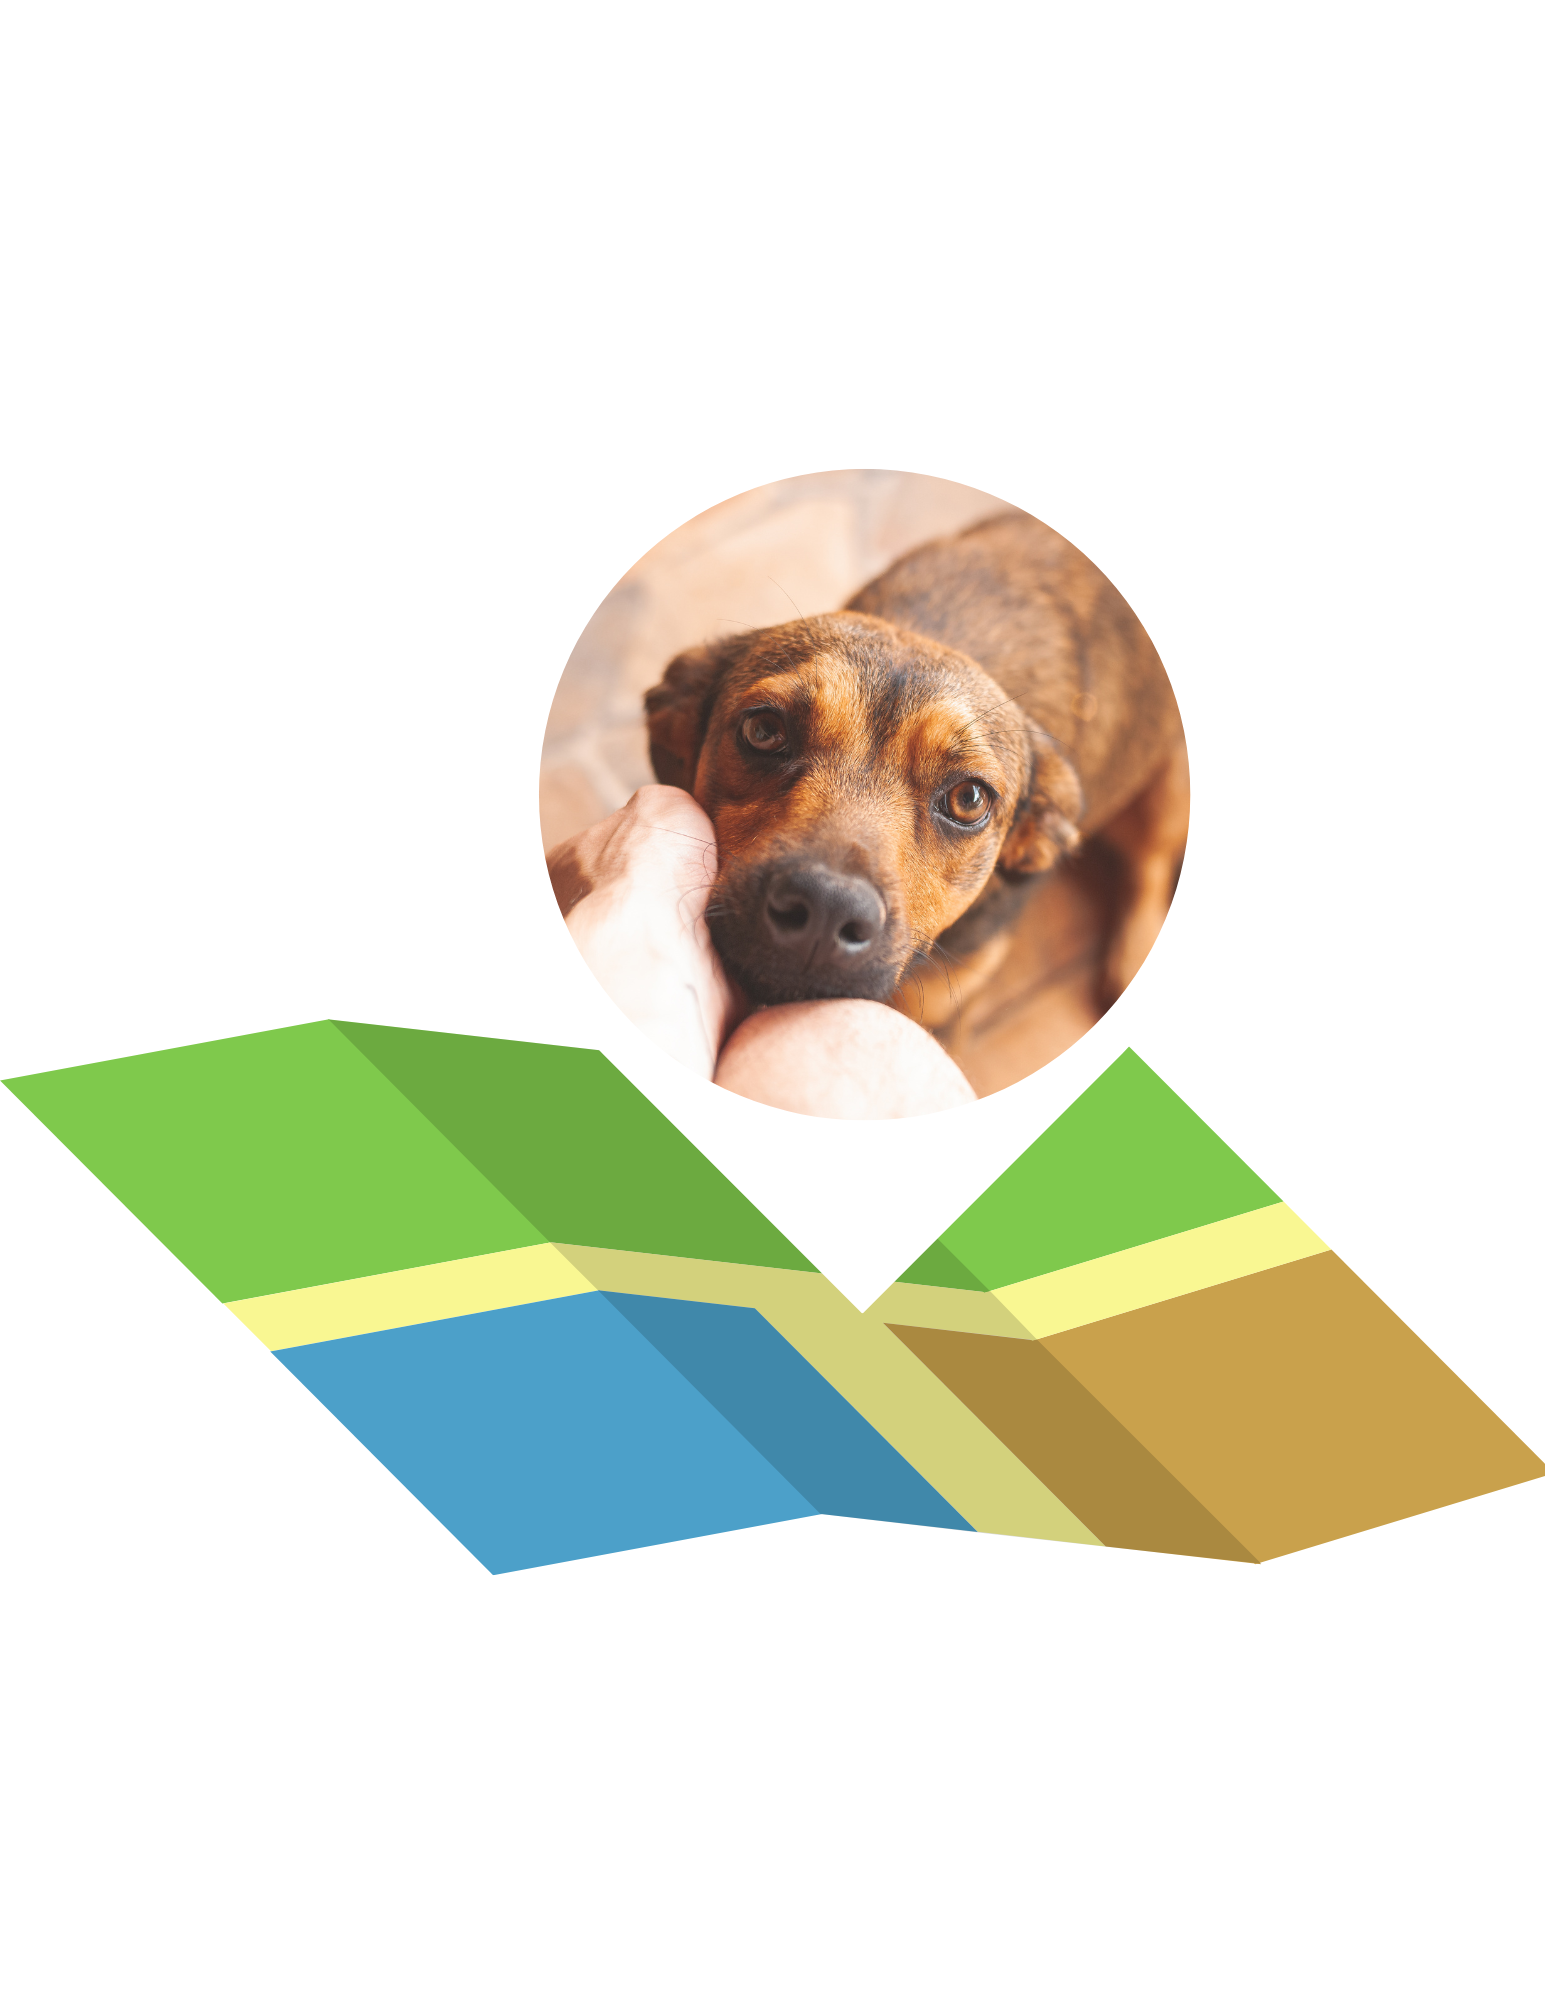
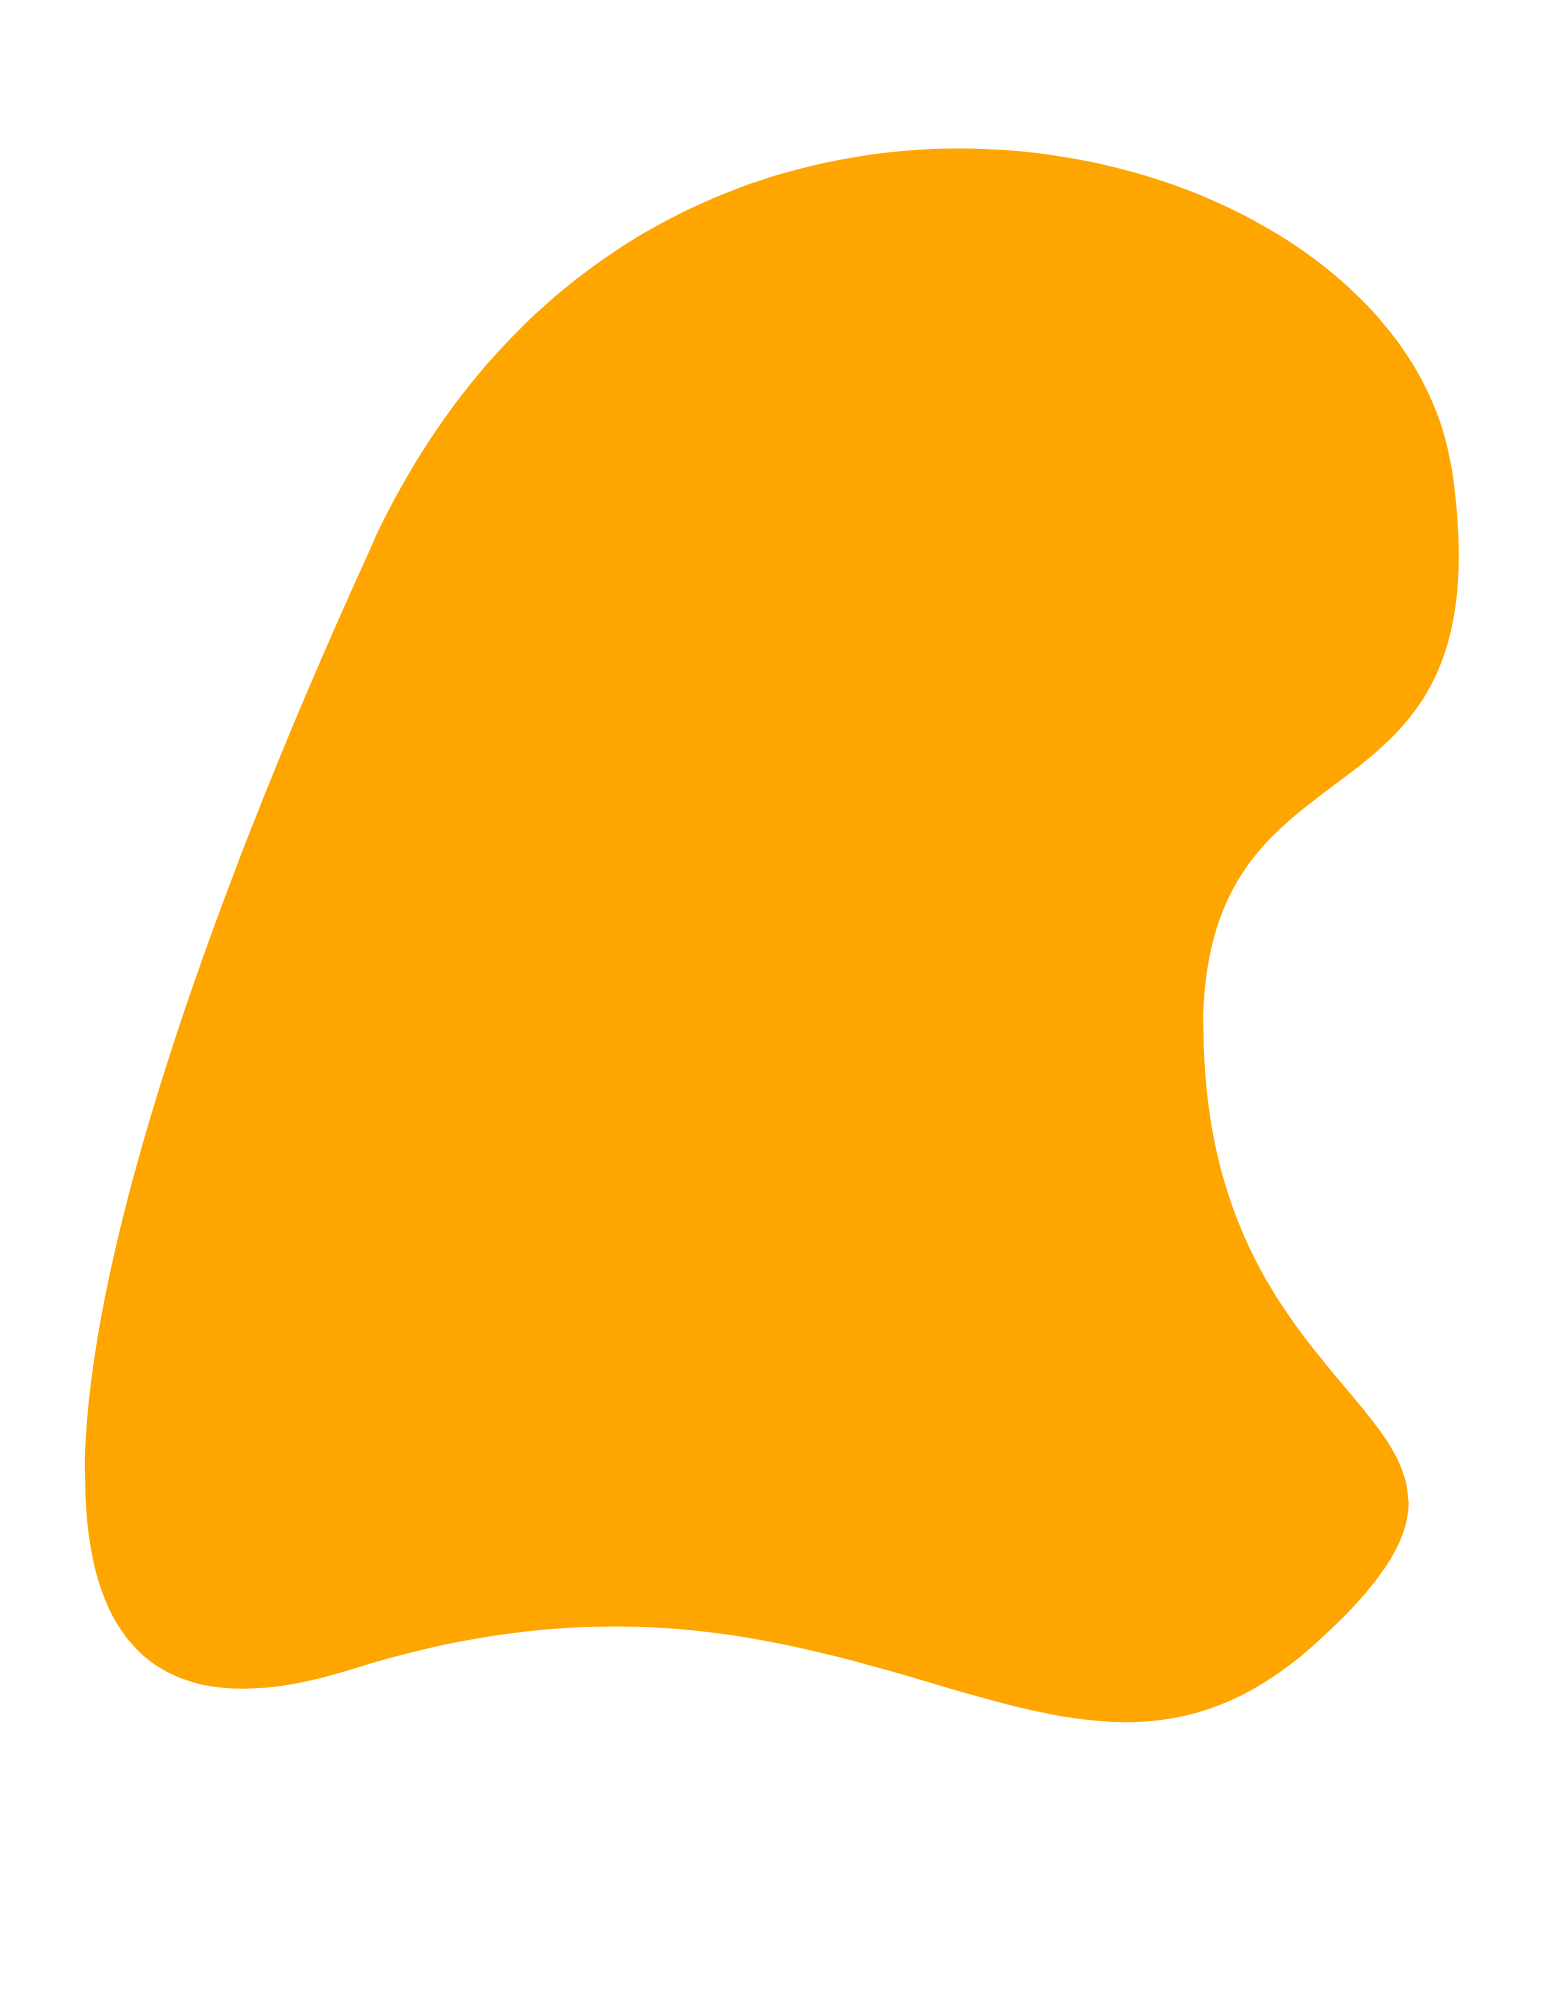
seccion adopcion y seccon donacion,paseo,etc
me falta por hacer la seccion de adopcion y la seccion de eleccion de cuidar pasear y donar, lo inetntare acabar mañana.

diff --git a/src/index/components/maps/maps.css b/src/index/components/maps/maps.css
@@ -2,8 +2,8 @@
 {
 
     @font-face {
-        font-family: 'Nunito sans';
-        src: url(/src/fonts/Nunito_Sans/NunitoSans-Italic-VariableFont_YTLC\,opsz\,wdth\,wght.ttf);
+        font-family: 'Montserrat';
+        src: url(/src/fonts/Montserrat/Montserrat-VariableFont_wght.ttf);
         font-weight: bold;
         font-style: normal;
     }
@@ -11,22 +11,49 @@
     #background2
     {
         position: relative;
-        background-image: url('../../assets-index/9.png');
+        background-image: url('../../assets-index/7.png');
         background-repeat: no-repeat;
         background-size: cover;
         background-position: center;
         width: 100%;
         height: 100vh;
-        z-index: 2;
-        bottom: 270vh;
+        z-index: 1;
+        bottom: 285vh;
     }
     #img-protect-maps
     {
         position: relative;
-        width: 50%;
-        height: 30vh;
-        bottom: 310vh;
+        width: 85%;
+        height: 50vh;
+        bottom: 370vh;
+        left: 4vh;
+        z-index: 2;
+    }
+
+    #descripcion-seccion-mapa
+    {
+        display: flex;
+        position: relative;
+        font-size: 20px;
+        font-family: 'Montserrat';
+        bottom: 420vh;
         z-index: 3;
+        color: white;
+        width: 60%;
+        height: 8vh;
+    }
+
+    #boton-del-mapa
+    {
+        
+        position: relative;
+        bottom: 385vh;
+        width: 25%;
+        height: 4vh;
+        border-radius: 20px;
+        color: #50c878;
+        font-size: 18px;
+        z-index: 2;
     }
 
 }

diff --git a/src/index/components/info/info.css b/src/index/components/info/info.css
@@ -6,14 +6,24 @@
         font-weight: bold;
         font-style: bold;
     }
+    
+    #imagen-fondo
+    {
+        position: relative;
+        z-index: 1;
+        width: 100%;
+        height: 50vh;
+        bottom: 260vh;
+        
+    }
     #img
     {
         position: relative;
         width: 94vw;
         height: 60vh;
-        bottom: 210vh;
+        bottom: 170vh;
         right: 4vh;
-        z-index: -2;
+        z-index: 2;
     }
 
     #img1
@@ -21,8 +31,8 @@
         position: relative;
         width: 50vw;
         height: 21vh;
-        bottom: 265vh;
-        z-index: -1;
+        bottom: 225vh;
+        z-index: 3;
 
     }
     #txt2
@@ -30,11 +40,11 @@
         position: relative;
         color: #50C878;
         font-family: 'Montserrat';
-        bottom: 280vh;
+        bottom: 295vh;
         width: 50%;
-        left: 20vh;
+        left: 15vh;
         font-size: 20px;
-        z-index: 0;
+        z-index: 3;
     }
 
     #btn1
@@ -43,7 +53,9 @@
         color: #50C878;
         width: 50%;
         height: 5vh;
+        border: 3px;
         border-radius: 20px;
-        bottom: 280vh;
+        bottom: 290vh;
+        z-index: 3;
     }
 }

diff --git a/src/index/components/adoptions/adoptions.css b/src/index/components/adoptions/adoptions.css
@@ -1,0 +1,43 @@
+@media (min-width: 320px) and (max-width: 480px) {
+    
+
+    #background-adoptions 
+    {
+        display: flex;
+        position: relative;
+        width: 100%;
+        height: 70vh;
+        bottom: 73h;
+        z-index: 0;
+    }
+
+    #fondo-superior-izquierda
+    {
+        position: relative;
+        width:60vw;
+        height: 25vh;
+        transform: rotate(20deg);
+        bottom: 376vh;
+        right: 16vh;
+        z-index: 3;
+    }
+  
+    #fondo-inferior-izquierda
+    {
+        position: relative;
+        width: 60vw;
+        height: 25vh;
+        z-index: 3;
+        bottom: 375vh;
+        right: 12vh;
+    }
+
+    #fondo-inferior-derecha
+    {
+        position: relative;
+        width: 60vw;
+        height: 25vh;
+    }
+    
+}
+

diff --git a/src/index/components/adoptions/adoptions.tsx b/src/index/components/adoptions/adoptions.tsx
@@ -1,0 +1,24 @@
+import'./adoptions.css'
+import img8 from'./../../assets-index/10.png'
+import img9 from'../../assets-index/11.png'
+import img10 from'../../assets-index/12.png'
+import img11 from'../../assets-index/9.png'
+import img12 from'../../assets-index/13.png'
+
+
+function Adoptions()
+{
+    return(
+        <>
+       <div id="backgrpound-mask">
+            <img  id='fondo-superior-izquierda' src={img8}/>
+            <img id='fondo-inferior-izquierda' src={img9}/>
+            <img id='foto-perro' src={img10}/>
+            <img id='fondo-inferior-derecha' src={img11}/>
+            <img id='background-adoptions' src={img12}/>
+        </div>
+        </>
+    )
+}
+
+export default Adoptions;

diff --git a/src/index/components/info/info.tsx b/src/index/components/info/info.tsx
@@ -1,6 +1,8 @@
 import'./info.css'
-import img4 from'../../assets-index/7.png'
-import img5 from'../../assets-index/8.png'
+import img4 from'../../assets-index/5.png'
+import img5 from'../../assets-index/6.png'
+import img6 from '../../assets-index/4.png'
+
 
 function Info()
 {
@@ -8,6 +10,7 @@ function Info()
         <>
         <img src={img4} alt='Background' id='img'/>
         <img src={img5} alt="Background1" id='img1' />
+        <img src={img6} alt='backgroud0' id='imagen-fondo'/>
         <p id='txt2'><b>Happy Paws</b> ayuda a las personas que quieren poner su granito de arena en las protectoras.</p>
         <button id='btn1'>Saber más</button>
         </>

diff --git a/src/index/components/encuesta/encuesta.css b/src/index/components/encuesta/encuesta.css
@@ -63,6 +63,7 @@
         color: white;
         width: 60%;
         height: 5vh;
+        border: 0px;
         border-radius: 25px;
         bottom: 185vh;
         left: 5vh;
@@ -71,18 +72,7 @@
         z-index: 1
     }
 
-    #efect
-    {
-        position: relative;
-        background-image: url(../assets-index/6.png);
-        background-repeat: no-repeat;
-        background-size: cover;
-        background-position: center;
-        width: 100%;
-        height: 45vh;
-        bottom: 220vh;
-        z-index: 0;
-    }
+
 
 
 

diff --git a/src/App.tsx b/src/App.tsx
@@ -7,6 +7,7 @@ import { Menu } from './index/components/menu/menu.tsx'
 import Encuesta from './index/components/encuesta/encuesta.tsx'
 import Info from './index/components/info/info.tsx'
 import Maps from './index/components/maps/maps.tsx'
+import Adoptions from './index/components/adoptions/adoptions.tsx'
 function App() {
 
 
@@ -24,6 +25,7 @@ function App() {
           <Encuesta/>
           <Info/>
           <Maps/>
+          <Adoptions/>
         </>   }/>
        
      

diff --git a/src/index/components/maps/maps.tsx b/src/index/components/maps/maps.tsx
@@ -1,12 +1,14 @@
 import './maps.css'
-import img6 from'../../assets-index/10.png'
+import img7 from'../../assets-index/8.png'
 
 function Maps()
 {
     return(
         <>
         <div id='background2'></div>
-        <img src={img6} id='img-protect-maps'/>
+        <img src={img7} id='img-protect-maps'/>
+        <b id='descripcion-seccion-mapa'>Descubre las protectoras cerca de ti </b>
+        <button id='boton-del-mapa'>Ir</button>
         </>
     )
 }

diff --git a/src/index/components/subheader/logo.tsx b/src/index/components/subheader/logo.tsx
@@ -1,11 +1,12 @@
-import img from'../../assets-index/1.png'
+import img from'../../assets-index/LogoPaws.png'
 import'./logo.css'
 function Logo()
 {
     return(
         <>
         <div id='subheader'>
-        <img className='Logo'src={img} id='logo'/></div>
+        <img className='Logo'src={img} id='logo'/>
+        </div>
         
         </>
     )

diff --git a/src/index/components/subheader/logo.css b/src/index/components/subheader/logo.css
@@ -4,15 +4,14 @@
     {
         display: flex;
         position: relative;
-        width: 6vw;
-        height: 3vh;
-        
-        bottom: 3vh;
+        width: 20vw;
+        height: 5vh;
+         bottom: 2vh;
     }
     .logo
     {
-        width: 30vw;
-        height: 40vh;
+        width: 100vw;
+        height: 60vh;
       
     }
 

diff --git a/src/index/components/portada/portada.tsx b/src/index/components/portada/portada.tsx
@@ -1,6 +1,6 @@
-import img1 from'../../assets-index/3.png'
-import img2 from'../../assets-index/4.png'
-import img3 from '../../assets-index/5.png'
+import img1 from'../../assets-index/1.png'
+import img2 from'../../assets-index/2.png'
+import img3 from '../../assets-index/3.png'
 import'./portada.css'
 function Portada()
 {

diff --git a/src/index/components/encuesta/encuesta.tsx b/src/index/components/encuesta/encuesta.tsx
@@ -48,7 +48,7 @@ function Encuesta ()
    </form>
 
    <button id='btn'><b>Buscar</b></button>
-   <div id='efect'></div>
+
 
         </>
     )
